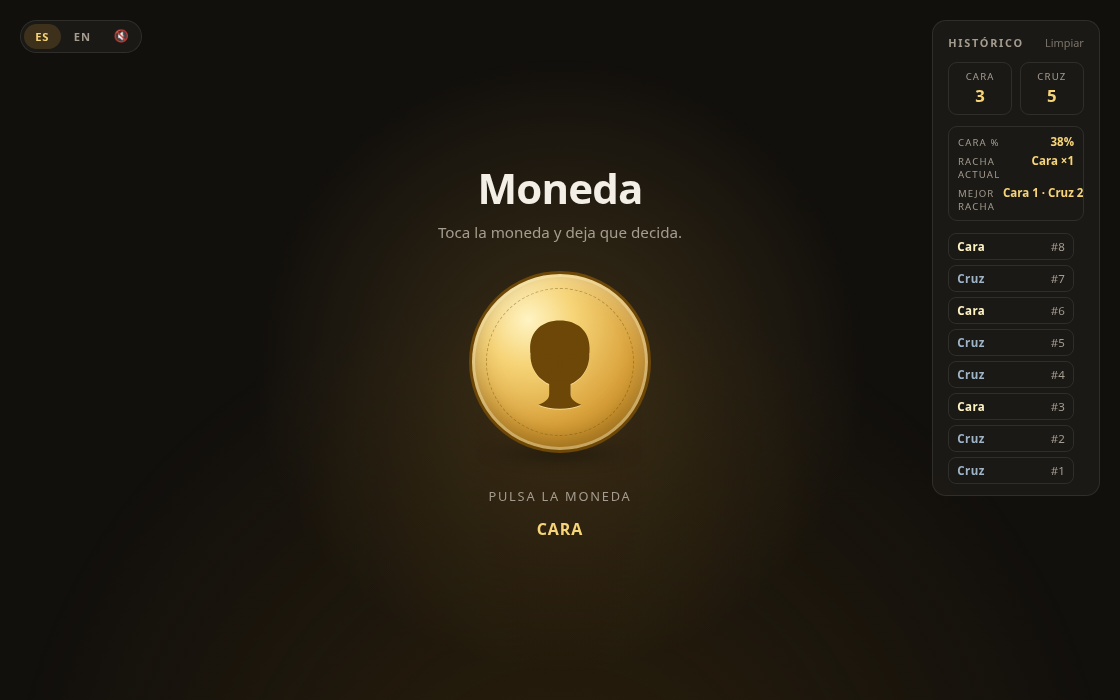
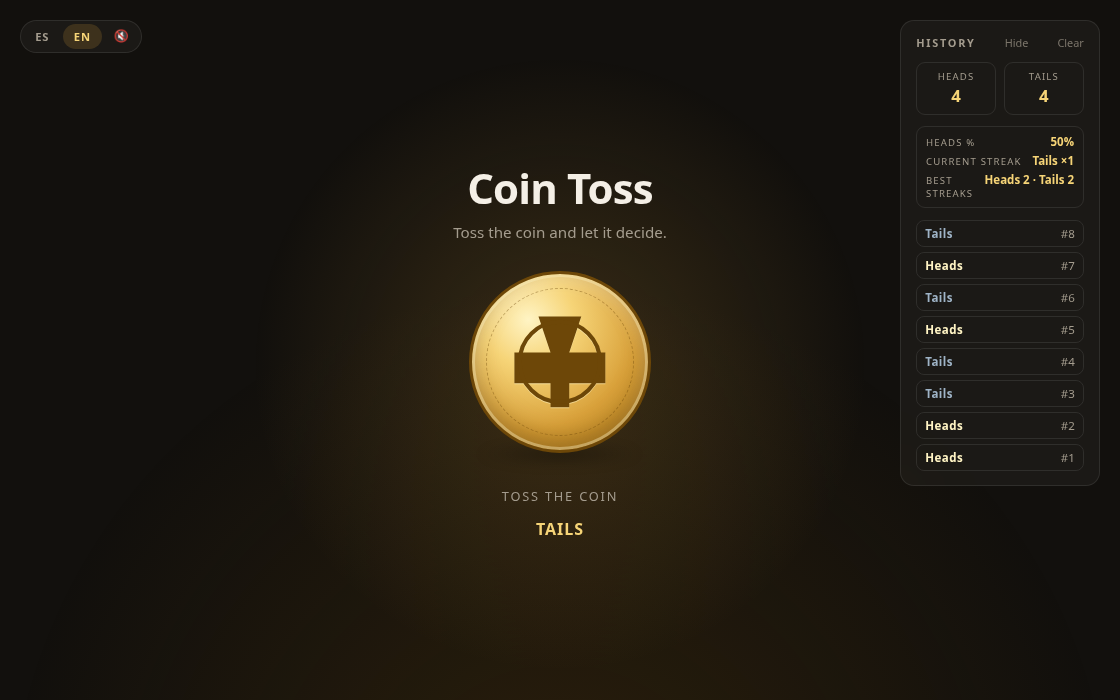
docs(readme): refresh screenshot in English and document collapsible history

diff --git a/README.md b/README.md
@@ -10,7 +10,7 @@ and the history keeps score.
 ![TypeScript bundled with tsdown](https://img.shields.io/badge/build-tsdown-informational)
 [![License: MIT](https://img.shields.io/badge/License-MIT-yellow.svg)](LICENSE)
 
-![Screenshot of the coin flip app showing the coin, a 3/5 tally with flip stats, and a history of eight flips](assets/screenshot.png)
+![Screenshot of the coin flip app showing the coin, a 4/4 tally with flip stats, and a history of eight flips](assets/screenshot.png)
 
 ## Features
 
@@ -20,6 +20,7 @@ and the history keeps score.
 - Flip stats with heads %, current streak, and best streaks per side
 - Optional WebAudio flip sounds (tick at the apex, thud on landing) with haptics, off by default and persisted in `localStorage`
 - Scrollable history of the last 50 flips, persisted in `localStorage`
+- Collapsible history panel, with its expanded/collapsed state persisted in `localStorage`
 - Spanish / English language selector
 - Respects `prefers-reduced-motion`: the result is announced without the animation
 - Keyboard accessible, with `aria-pressed`, `role="status"` and `aria-live` regions
